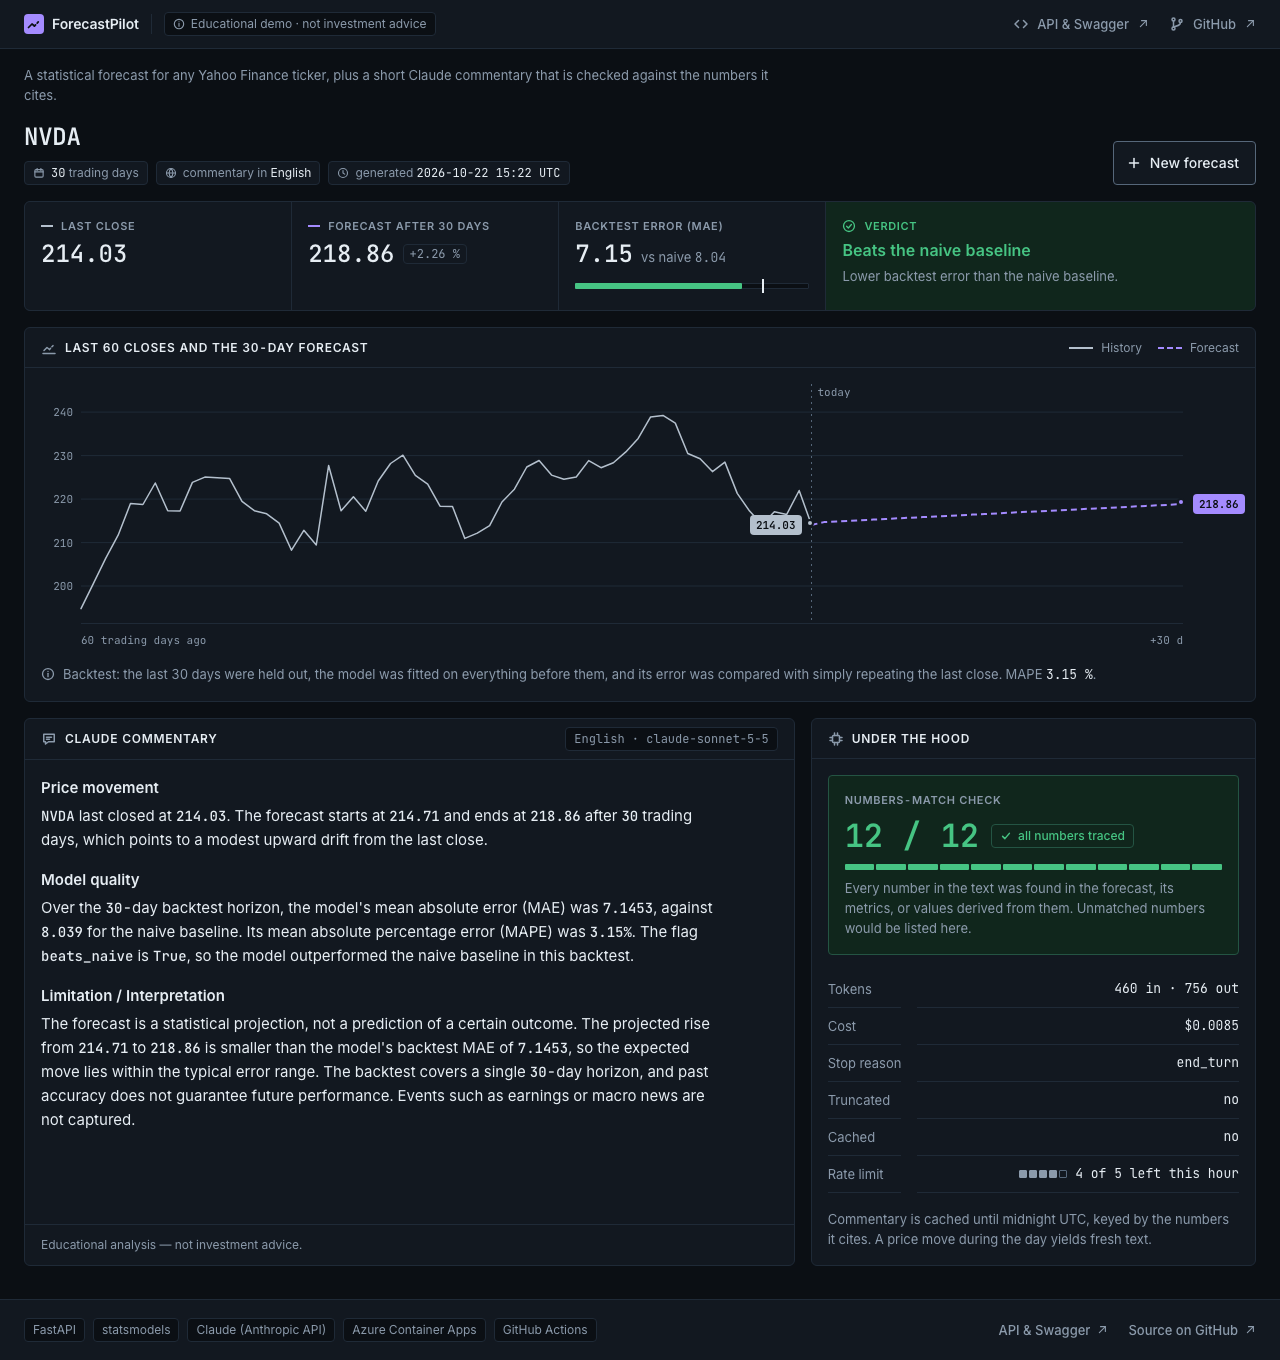
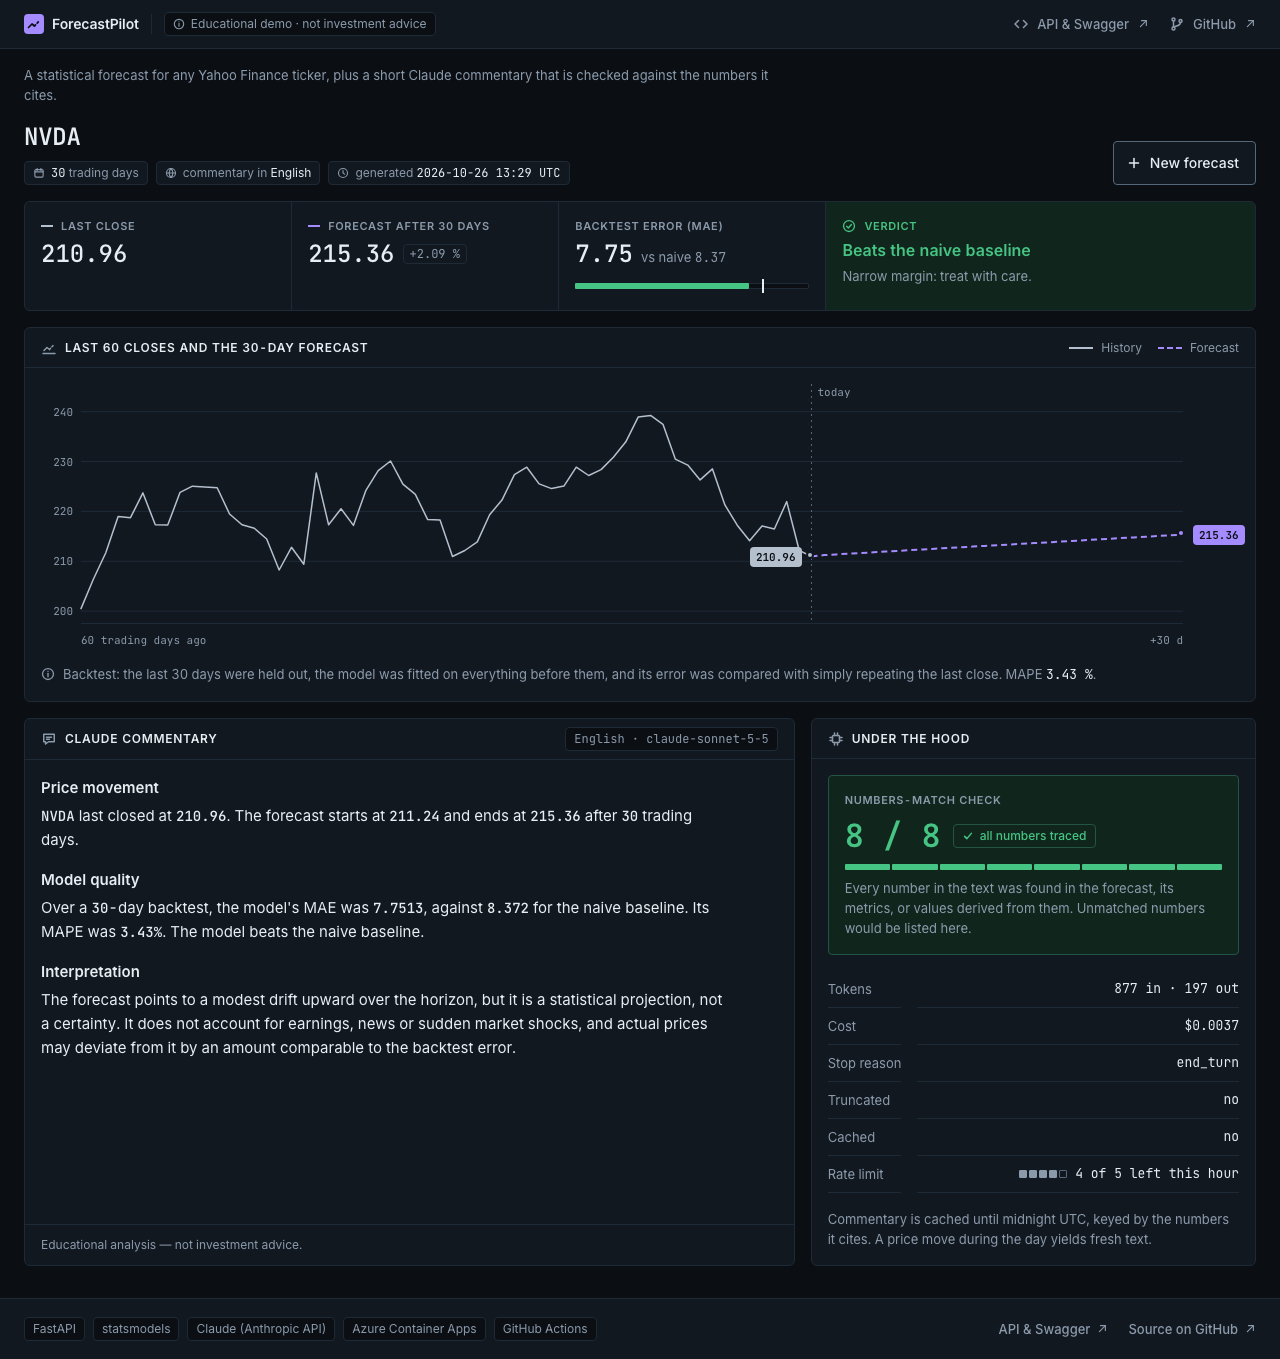
docs(readme): close the project (#30)
* docs(readme): close the project

- Live demo: the cold start as the platform's system logs show it (two
  starts, about 27 and 29 seconds from scheduling the new replica to
  its first answer, 6.6 and 7.8 seconds of that for the image pull),
  instead of "about 20 seconds".
- New section "What this project shows, and what it does not".
- Deployment: the ruleset on main (pull requests only, four required
  checks on an up-to-date branch, no force-push, no deletion, no bypass).
- Roadmap final: supply chain and browser test done; model selection by
  rolling backtest open; Application Insights and RAG move to project 2.
- Screenshot renewed: the live page, NVDA, 30 days, prompt v3.
- .gitignore: Claude Code local settings and session worktrees.

* docs(readme): short live demo, cold-start figures under Infrastructure

- Live demo: scale to zero after five minutes, the first request wakes a
  new container and takes about half a minute or longer, the page shows
  the progress, later requests do not wait. The measured figures moved
  to Infrastructure, with a link.
- What this project shows: actions are pinned to commits, the base
  image to its digest.

---------

diff --git a/README.md b/README.md
@@ -12,7 +12,7 @@ A FastAPI service that pulls market data, produces a statistical forecast with b
 
 ### [▶ Open the app](https://timur-us.github.io/forecastpilot/) · [API & Swagger](https://forecastpilot.mangotree-f644cfcc.germanywestcentral.azurecontainerapps.io/docs)
 
-The web app is a static page on GitHub Pages; the API runs on Azure Container Apps with scale-to-zero. The first request after a quiet period takes about 20 seconds while a container starts — the page shows what happens while you wait — and every request after that answers in well under a second.
+The web app is a static page on GitHub Pages; the API runs on Azure Container Apps and scales to zero after five minutes without a request. The first request after that wakes a new container and takes about half a minute or longer; the page shows the progress, and later requests do not wait (measurements under [Infrastructure](#infrastructure)).
 
 [![ForecastPilot web app showing the NVDA 30-day forecast, the backtest verdict, the Claude commentary and the numbers-match check](docs/screenshot-result.png)](https://timur-us.github.io/forecastpilot/)
 
@@ -25,6 +25,20 @@ GET /forecast/NVDA?horizon=30&commentary=true&language=en
 ## Why this exists
 
 Built to demonstrate end-to-end ML & GenAI engineering: model serving, containerization, CI/CD, cloud deployment (Azure), observability, and LLM output evaluation.
+
+## What this project shows, and what it does not
+
+Shown:
+
+- **Operations.** An LLM feature run as a service: infrastructure as code with a `what-if` before every deployment, a deploy job that cannot remove or empty a secret, dependency and image scanning, actions pinned to commits and the base image to its digest, and a browser run of the web app on every change.
+- **Measurement.** Every commentary carries its tokens, cost, stop reason and prompt version. An eval suite with a golden set, a hold-out set and a regression gate decides prompt changes, and every number in the text is checked against the data it cites.
+- **Honesty about LLM output.** The guard's misses are documented next to its catches, a prompt version that broke a correctness metric was rejected and stays in the record, and what holds by construction is marked apart from what the model achieved.
+
+Not shown:
+
+- **Forecasting skill.** Holt-Winters against a naive baseline, judged on one backtest window per request. A win or a loss on one ticker says nothing about the model.
+- **Distributed rate limits.** Limits and cache live in one process and start empty on every start; the hard cost ceiling is the Anthropic budget.
+- **Agents.** One structured model call per request, with no tools, no planning and no multi-step workflow.
 
 ## Architecture
 
@@ -83,7 +97,7 @@ Since prompt version `2026-10-25.3` the model returns the three parts as a struc
 
 ### Example
 
-`GET /forecast/NVDA?horizon=30&commentary=true&language=en` — a live response from the deployed service (2026-10-25, prompt `2026-10-25.3`, later than the screenshot above), shortened:
+`GET /forecast/NVDA?horizon=30&commentary=true&language=en` — a live response from the deployed service (2026-10-25, prompt `2026-10-25.3`), shortened:
 
 ```json
 {
@@ -255,6 +269,8 @@ docker run --env-file .env -p 8000:8000 forecastpilot
 
 Every push to `main` and every pull request runs `.github/workflows/ci.yml`: `ruff check`, `ruff format --check` and `pytest` on Python 3.11, then a Docker build. Each of these runs also drives the web app in headless Chromium against a mock API (`web-test`) and uploads screenshots of every state as a CI artifact. On `main` a `changes` job diffs the push against the previous head and gates two deployments: when `app/`, `infra/`, `requirements.txt`, the `Dockerfile` or `.dockerignore` changed, the image is pushed to Azure Container Registry tagged with the commit SHA and rolled out with `az deployment group create` against `infra/main.bicep` (see [Infrastructure](#infrastructure); a new revision takes traffic once it is healthy, the previous one serves until then); when `web/` changed and the browser run did not fail, the page is published to GitHub Pages. Documentation-only changes deploy nothing, and neither do changes to the workflow itself, which carries no deployed values; a manual run (`workflow_dispatch`) can redeploy either part.
 
+Changes reach `main` only through pull requests. A ruleset requires `lint-test`, `pip-audit`, `docker-build` and `web-test` to pass on a branch that is up to date with `main`, blocks force-pushes and deleting the branch, and has no bypass, not even for admins.
+
 ## Infrastructure
 
 The Azure setup is described as Bicep in `infra/`, matching what runs in production (resource group `forecastpilot-rg`, Germany West Central):
@@ -264,6 +280,8 @@ The Azure setup is described as Bicep in `infra/`, matching what runs in product
 - `infra/main.bicep` chooses what a deployment touches with `scope`: `app` (the default) writes only the Container App and references the registry and the environment as existing resources; `shared` writes only the Log Analytics workspace, the registry and the environment, and `all` writes those and then the Container App. Both run only by hand. Every push deploys `scope=app`, so a push can change one resource and nothing else.
 - The app runs on at most one replica per revision (`maxReplicas = 1`, lower bound 0 for scale to zero). The rate limit and the commentary cache live in process memory: with several replicas each would count its own limit, multiplying what a client may call, and keep its own cache. One replica avoids that only while it runs. Counters and cache start empty on every start: after scale to zero (300 seconds without a request, `cooldownPeriod`) and with every new revision, whose replica starts before the old one stops and then takes the traffic. The hourly limit therefore holds per running replica, not across restarts; the hard cost ceiling is the monthly budget in the Anthropic Console (see [Cost controls](#cost-controls)).
 - `infra/main.bicepparam` holds the production values and is the single source for model, pricing, proxy trust, CORS and the replica limit (cooldown and polling interval are fixed in `infra/modules/app.bicep`). A rebuild and every push read the same file; the workflow only supplies the image tag, the API key and `scope=app`, as environment variables the parameter file reads. Values kept in the workflow would only apply to pushes, so a rebuild from the template would silently differ.
+
+Cold starts: in two cold starts recorded in the platform's system logs (2026-10-25 and 2026-10-26), the new replica answered its first request about 27 and 29 seconds after it was scheduled, 6.6 and 7.8 seconds of that for the image pull. The time until the platform schedules the replica comes on top and is not in the logs.
 
 The app has two secrets, and both are written on every deployment, because a deployment that leaves a secret out removes it: `anthropic-api-key` from the GitHub secret `ANTHROPIC_API_KEY` (a secure parameter; an empty value fails before anything reaches Azure), and the registry password from `listCredentials()` of the existing registry. `what-if` cannot compare secret values, because Azure never returns them, but it does report a secret that would be removed. The deploy job prints a `what-if` before every `create`; it is a record in the log, not a gate. Pull requests have no Azure login, so CI runs no `what-if` there: it compiles and lints the template and the parameter file, and a pull request that changes `infra/` carries a `what-if` run by hand against production in its description, as [#21](https://github.com/timur-us/forecastpilot/pull/21) does.
 
@@ -317,10 +335,13 @@ A tag is a pointer that whoever controls the action's repository can move. On 20
 - [x] **W5** Observability — token/cost metrics, numbers-match guard on every commentary response
 - [x] **Eval suite** — golden set (20 cases) and hold-out (6), 11 metrics, recorded baseline per prompt version, regression gate in CI
 - [x] **Structured outputs** — measured with the eval suite: v1 → v2.1 → v3, before/after table above
-- [ ] **W5** Application Insights — moves to project 2
 - [x] **W6** Polish — live demo URL, architecture diagram
 - [x] **W6** Screenshots
 - [x] **Web app** — static page on GitHub Pages with the forecast, the verdict, the commentary and the guard result
+- [x] **Supply chain** — Dependabot, pip-audit, Trivy image scan, actions pinned to commits and the base image to its digest
+- [x] **Browser test in CI** — headless Chromium against a mock API, every state of the web app, screenshots as CI artifact
+- [ ] **Model selection by rolling backtest** (ETS, ARIMA, Theta against the naive baseline)
+- [ ] **W5** Application Insights — moves to project 2
 - [ ] **W7** RAG add-on — commentary grounded in uploaded reports, with citations — moves to project 2
 
 ## Cost controls
